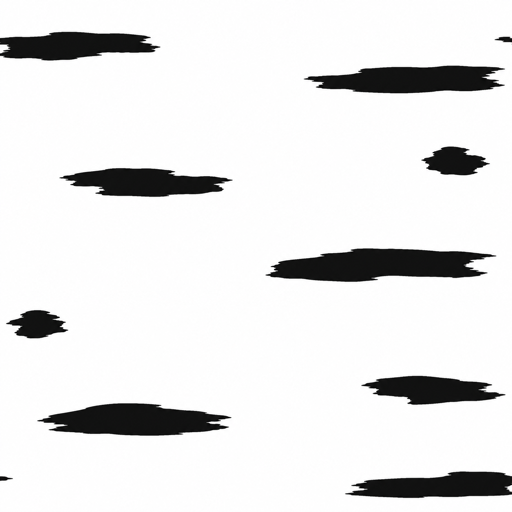
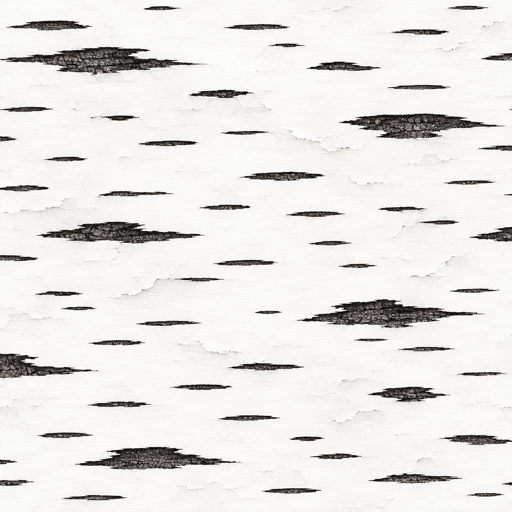
Give birches painted hanging foliage and stronger twig wind
Balance bark detail between the fine original and the sparse bold revision.
Replace round crowns with unequal hanging sprays and seeded gaps. Blend
normals across the broader canopy and reduce texture contrast between leaves.
Increase coherent twig motion while keeping the wood rigid.

Document the additional stylized-foliage research and asset prompts. Update
the grove preview and retain the shared generator in all walker forests.

Verified three targeted cases, leafWind/surfaceImages/impostorBake hardware
checks, all four example gates (136/137/138/143), formatting and copy gate.

diff --git a/docs/tree-rendering-2026.md b/docs/tree-rendering-2026.md
@@ -17,7 +17,7 @@ Autumn colours should move from soft green through lime to warm gold.
 These identifiers follow [Kew's species account](https://powo.science.kew.org/taxon/urn%3Alsid%3Aipni.org%3Anames%3A295174-1/general-information)
 and the [Woodland Trust's illustrated silver-birch guide](https://www.woodlandtrust.org.uk/trees-woods-and-wildlife/british-trees/a-z-of-british-trees/silver-birch/).
 
-The revised art direction uses rounded leafy groups with smooth lighting,
+The revised art direction uses uneven hanging sprays with broad smooth lighting,
 a slightly crooked leader and bright white bark with sparse, thick black scars.
 The original individual-leaf geometry was rejected after review.
 The three supplied screenshots favour broad foliage masses and leafy outlines.
@@ -51,15 +51,15 @@ copy into an ordinary WebGPU renderer. Rae should start with a bounded mesh
 and count both vertices and shadow draws.
 
 The revised choice is a curved 3 x 3 vertex patch carrying a leaf-cluster
-colour/alpha texture. Twelve patches surround each branch clump. Normals are
-computed from the clump envelope with an upward bias; they are not the flat
-normals of the cards. Reverse-wound indices make both sides visible without
+colour/alpha texture. Four to six patches form each uneven hanging spray.
+Normals mostly follow the broader crown with a small local bend; neither each
+leaf nor each tuft gets its own spherical lighting envelope. Reverse-wound indices make both sides visible without
 flipping the lighting normal. Alpha below 0.5 is discarded in colour, shadow
 and impostor-bake passes. There is no sorted transparent blending.
 
-The image uses simple overlapping leaf shapes rather than photographic veins
-or baked shadows. The initial textured render was too busy, so it was replaced
-with a simpler generated texture before validation. The clump lighting follows
+The image uses nearly merged painted leaf shapes with an irregular branch
+silhouette, transparent gaps and little internal contrast. Interior detail
+must not become a separate bright/dark pattern for every leaf. The clump lighting follows
 the general strategy described in [the SpeedTree rendering chapter](https://developer.nvidia.com/gpugems/gpugems3/part-i-geometry/chapter-4-next-generation-speedtree-rendering).
 This is an implementation of that general technique, not a reconstruction of
 the unknown renderer in the supplied screenshots.
@@ -111,9 +111,9 @@ A constant green emission term would be the wrong solution.
 The [GPU Gems vegetation chapter](https://developer.nvidia.com/gpugems/gpugems3/part-iii-rendering/chapter-16-vegetation-procedural-animation-and-shading-crysis)
 separates main structural bending from leaf detail and describes independent
 stiffness/phase controls. Rae now has intact leaf-pivot rotations, shared with
-its shadow vertex stage. Birch clumps share a branch attachment as their pivot; all patches in a clump
+its shadow vertex stage. Birch sprays share a twig attachment as their pivot; all patches in a spray
 rotate together, with their normals. Their signed flexibility selects a slow,
-small branch response: fixed per-tree phase, fixed per-branch phase, and no
+visible branch response: fixed per-tree phase, fixed per-branch phase, and no
 noise sampled at a coordinate multiplied by changing wind direction. Wood
 stays rigid. Other species retain their current wind response. This follows
 [SpeedTree's wind guidance](https://docs8.speedtree.com/modeler/doku.php?id=wind_vfx)
@@ -149,9 +149,9 @@ batches provide the appropriate ownership and culling structure.
   vertices share radial normals; the UV seam has duplicate vertices at U=0/1.
   Bark V follows branch length, avoiding a new stretched texture per triangle.
 - Twenty-six irregularly phased limbs carry five hanging twigs each. Each limb
-  has one rounded leaf clump, split across three colour meshes. Each clump has
-  twelve curved patches: 312 patches, 2,808 leaf vertices and 4,992 leaf
-  triangles including both sides. Each clump shares one fixed branch pivot.
+  has one or two unequal hanging sprays, with seeded omissions on outer twigs.
+  Sprays vary in width, depth, length and patch count (four to six). Each spray
+  shares a fixed twig pivot. Three colour meshes keep the existing batching.
 - The shared forest registers one prototype. Grove placements vary yaw and
   scale. A future set of two or three seed variants can improve repetition
   without making every tree unique on the GPU.
@@ -162,21 +162,26 @@ batches provide the appropriate ownership and culling structure.
 ### Bark texture and materials
 
 `lib/assets/trees/birchBark.png` and `birchLeaves.png` are original generated
-512 x 512 PNGs. The bark revision has sparse near-black horizontal scars on
-white, with much less fine noise. Bark V repeats 0.34 times per metre rather
+512 x 512 PNGs. The bark revision balances medium dark lenticels, occasional
+larger scars and subtle pale papery detail on white. It is a visual midpoint
+between the original fine texture and the overly sparse eight-mark revision. Bark V repeats 0.34 times per metre rather
 than 1.4, making the markings about four times longer vertically. The leaf
-texture has broad flat green shapes, transparent margins and small holes.
+texture has low-contrast painted green masses, irregular margins and gaps.
 
 Generation briefs (built-in image generator; originals retained outside the
 repo, resized for runtime):
 
-- Bark: seamless silver-birch albedo; white covering about 90%; about eight
-  large sparse near-black horizontal scars, 15–28% width and 2–5% height;
-  no hairlines, speckle, lighting, shadows or text.
-- Final leaves: dense rounded cluster of about 45 overlapping large simple
-  oval pointed leaves; similar medium green shades; no veins, realistic
-  surface shading or strong shadows; filled centre, transparent background
-  and a few small gaps; margins on every side.
+- Bark edit: use the original detailed and the sparse bold texture as equal
+  references; halfway in detail density and realism; roughly 35–45 varied
+  horizontal scars, bright white base, deep charcoal marks, subtle papery
+  peeling; no beige cast or baked light; tileable. The output has naturally
+  varied marks rather than a mathematically exact 50% pixel blend.
+- Leaf edit: irregular hanging branch spray with gaps and transparent margins;
+  merge neighbouring leaf colours into painted masses; no veins, outlines,
+  highlights or leaf-by-leaf shadows. A second edit reduces internal contrast
+  toward 3% while keeping the silhouette.
+- Both were made with the built-in image generator and resized to 512 square.
+  Final assets are the two `lib/assets/trees/` paths above.
 
 `SurfaceImages` owns a renderer-local RGBA image array, view and repeating
 trilinear sampler. RGB is decoded to linear light before mip generation.
@@ -228,8 +233,10 @@ and fixed population when profiling; a changed distribution is not a valid
 isolated performance comparison. Texture memory for one 512-square RGBA8 mip
 chain is about 1.33 MiB, shared by all birch instances in a renderer.
 
-The revised prototype has 7,943 vertices and 12,084 triangles across five
-parts, including reverse-wound patch faces. That is fewer vertices than the
+The first textured prototype had 7,943 vertices and 12,084 triangles across
+five parts, including reverse-wound patch faces. The subsequent hanging-spray
+revision varies the patch count by seed and remains within the fixture budget.
+Both use fewer vertices than the
 17,875-vertex individual-leaf version, but alpha-tested overdraw can still be
 expensive. Vertex/index storage is about 0.42 MiB per shared prototype. Both
 512-square RGBA8 mip chains total about 2.67 MiB, shared by every instance.
@@ -263,7 +270,7 @@ To visit the stand, run example 138 and press **9**, or start with
 `RAE_GROVE_VIEW=birches`. Both walkers and the huge forest receive the species
 through `app3d/GroveTrees`; no separate generator copies are kept in examples.
 
-## 6. Patch revision validation
+## 6. First patch revision validation (before hanging sprays)
 
 The updated geometry fixture checks seeded stems, valid indices and unit
 normals, UV seams, 312 patches, shared clump pivots and alpha-weighted mip
@@ -287,3 +294,49 @@ a freshly constructed subject.
 Inspected final captures in Autumn Grove and both walker render paths. The
 grove preview is `examples/138_procgen_showcase/references/Birches.png`;
 key **9** opens the birch stand. Its camera now frames the full crowns.
+
+## 7. Animation-background refinement
+
+The round clumps and separately coloured leaves were too artificial. Shape,
+texture and shading need different scales: the silhouette can show leaf tips,
+but large groups should share their light and dark values.
+
+[Harry Alisavakis’s foliage breakdown](https://halisavakis.com/my-take-on-shaders-stylized-tree-leaves/)
+uses masked leaves and custom stylized lighting, and removes normal-map detail
+and specular to reduce visual noise. It also discusses UV-based motion and
+backlighting. We adopt the low-noise albedo/normal direction; UV warping would
+work against our fixed twig attachment and is not used here. This does not
+copy that shader or introduce emission that could glow at night.
+
+[Ascalon’s tree-shader study](https://www.aversionofreality.com/blog/2022/8/7/stylized-tree-shader)
+separates custom normals, world lighting, colour variation and density. Our
+choice is to derive most normal direction from the broader crown, then add
+only a small local bend. Geometry becomes elongated, offset sprays along
+actual twigs, with uneven dimensions and missing outer sprays. This keeps
+full areas alongside open areas without making a set of shaded balls.
+
+Wind uses the existing negative-flexibility path, now with a stronger slow
+swell and independent twig motion. Flexibility varies from 0.8 to 1.2 per
+spray. The angular response is capped at 0.42 radians (24 degrees), with
+ordinary breezes below that limit. Every patch in a spray keeps the same
+pivot, motion and rotated normal. Wood stays fixed. Positive-flexibility
+species keep their existing response. This remains art-directed motion,
+not a branch-physics simulation.
+
+The references are low-resolution stills; they do not identify their engine
+or establish a wind algorithm. This revision aims for their broad painted
+value groups while retaining Rae's day/night lighting and alpha-tested
+shadow path. A dedicated foliage light-transmission model could improve
+backlighting later, but is outside this asset and generator refinement.
+
+Validation for this refinement: cases `1228_tree_levels_cover_alike`,
+`1232_wind` and `1235_birch` passed with a 120-second bound. Hardware checks
+`leafWind`, `surfaceImages` and `impostorBake` passed with 120/150-second
+per-check bounds. Example gates 136, 137, 138 and 143 passed (two bounded
+runs, 900 and 600 seconds), including the walker's running memory check and
+the forest's 31,090 trees. The example-copy gate and formatting checks passed.
+Five timed grove captures were taken across about five seconds and inspected
+for silhouette changes. The revised wind check requires a 70 cm spray tip
+to move more than 5 cm in at least 12 of 32 sampled times, alongside the
+existing rigidity, attachment, normal and continuity checks. These are
+correctness and visual checks, not a frame-time performance comparison.

diff --git a/examples/138_procgen_showcase/README.md b/examples/138_procgen_showcase/README.md
@@ -199,14 +199,14 @@ Five birches share the LOD0 prototype from `lib/procgen/Birch.rae`. The same
 prototype is planted by `app3d/GroveTrees` in walkers 136/137 and forest 143.
 Key **9** or `RAE_GROVE_VIEW=birches` frames the stand.
 
-The wood uses `lib/assets/trees/birchBark.png`: bright white with sparse, large
-black scars. The crown uses `birchLeaves.png` on 312 curved patches grouped
-into 26 branch clumps. Smooth clump normals unify the lighting; fixed branch
-pivots give the clumps a small, slow wind response. Colour, shadow and distant
+The wood uses `lib/assets/trees/birchBark.png`: bright white with medium black
+lenticels, occasional broad scars and subtle papery detail. The crown uses
+`birchLeaves.png` on uneven hanging sprays with open gaps. Broader crown
+normals and a low-contrast texture unify the lighting. Fixed twig pivots give
+the sprays visible swaying motion, with different phases and strengths. Colour, shadow and distant
 bake passes all use the same alpha cutoff and coverage-preserving texture mips.
 
-The five parts total 7,943 vertices and 12,084 triangles. They and the two
-textures are shared by every instance. The shared walker forest uses this
+The five mesh parts and two textures are shared by every instance. The shared walker forest uses this
 same generator in 136, 137 and 143. The middle LOD still shares the close mesh;
 the existing distant bake now includes the bark and masked leaves. A dedicated
 reduced mesh remains future work. See [the rendering review](../../docs/tree-rendering-2026.md).

diff --git a/docs/wind-design.md b/docs/wind-design.md
@@ -128,12 +128,15 @@ phone's cost is not measured yet. The vertex count of the near tree levels is
 the thing to watch there: lowering the near level's distance on a phone, or
 setting a kind's sway to 0 there, removes it.
 
-### Textured birch clumps (2026-10-23)
+### Textured birch sprays (2026-10-23)
 
-A negative leaf flexibility selects a restrained branch-clump response in
-`windLeaf`; its magnitude controls the response. The twelve curved patches of
-a birch clump share one pivot and phase. A fixed tree phase drives a slow swell;
-a fixed branch phase adds a smaller variation. This keeps the clump rigid and
+A negative leaf flexibility selects a branch-spray response in `windLeaf`;
+its magnitude controls the response. Four to six curved patches in a birch
+spray share one pivot and phase. The response was increased after the first
+version moved too little: spray flexibility is 0.8–1.2, angular travel is capped
+at 0.42 radians, and the hardware check requires visible tip displacement.
+A fixed tree phase drives a slow swell;
+a fixed branch phase adds a smaller variation. This keeps the spray rigid and
 rotates its shading normals with it. Zero wind keeps every vertex unchanged.
 No moving noise coordinate depends on the total time times a changing wind
 direction. Existing positive-flexibility species keep their current motion.
